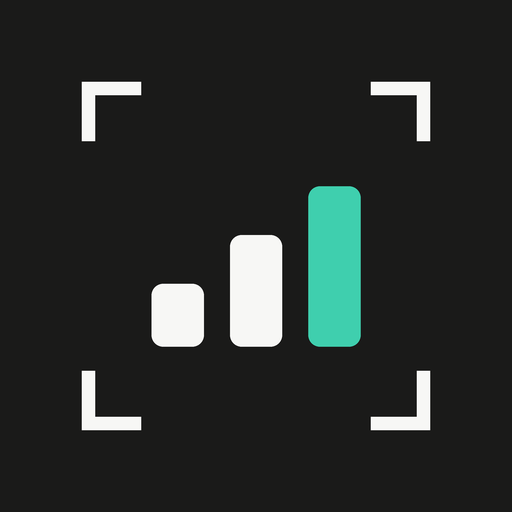
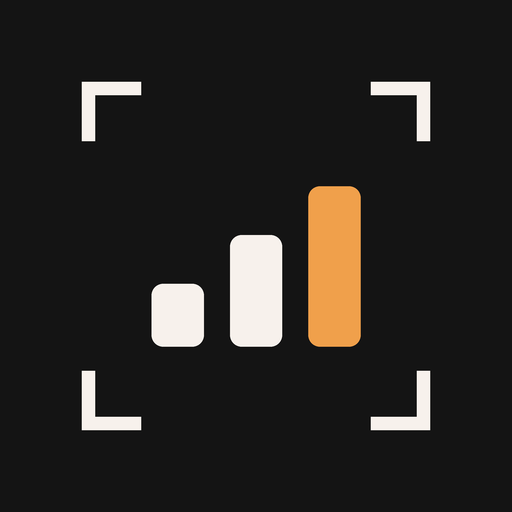
Foco de teclado en tinta e ícono nuevo de ExoGuardian
- El indicador de foco pasa de naranja a tinta (crema en oscuro): el naranja
  #f0a04b sobre crema da 1.9:1 y WCAG 2.2 pide 3:1. Medido: tinta sobre crema
  16.45:1. El naranja queda para el logo, la regla y lo activo; en los campos
  sigue como halo decorativo detrás del borde en tinta.
- Íconos de la app regenerados desde el icono-512.png nuevo del gestor
  (glifo en tinta y crema con la última barra naranja), el mismo que usa /ojos.

Changed region(s): [[0.5938, 0.3438, 0.7188, 0.6875]]

diff --git a/src/IVZVision.Web/wwwroot/css/site.css b/src/IVZVision.Web/wwwroot/css/site.css
@@ -1393,7 +1393,8 @@ b, strong { font-weight: 500; }
 a { color: var(--text); text-decoration: underline; text-decoration-color: color-mix(in srgb, var(--orange) 70%, transparent); text-underline-offset: 3px; }
 a:hover { text-decoration-color: var(--orange); }
 .nav a, .tabs a, .brand, a.btn, a.dash-card, .mon-config { text-decoration: none; }
-:focus-visible { outline-color: var(--orange); }
+/* Foco en tinta (crema en oscuro): el naranja sobre crema da 1.9:1 y WCAG 2.2 pide 3:1 para el indicador. */
+:focus-visible { outline-color: var(--primario); }
 * { scrollbar-color: var(--line-2) transparent; }
 
 /* Cabecera: crema translúcida, sin filo de latón ni degradado. */
@@ -1450,7 +1451,7 @@ h3 { font-size: 12px; font-weight: 500; letter-spacing: .14em; }
 /* Formularios */
 input[type=text], input[type=password], input[type=number], input[type=search],
 input[type=date], select, textarea { background: var(--surface-2); font-weight: 400; padding: 9px 13px; }
-input:focus, select:focus, textarea:focus { border-color: var(--orange); box-shadow: 0 0 0 3px color-mix(in srgb, var(--orange) 25%, transparent); }
+input:focus, select:focus, textarea:focus { border-color: var(--primario); box-shadow: 0 0 0 3px color-mix(in srgb, var(--orange) 30%, transparent); }
 .check input, .grupo-marca input, .hit-marca { accent-color: var(--primario); }
 .check label { font-weight: 400; }
 
